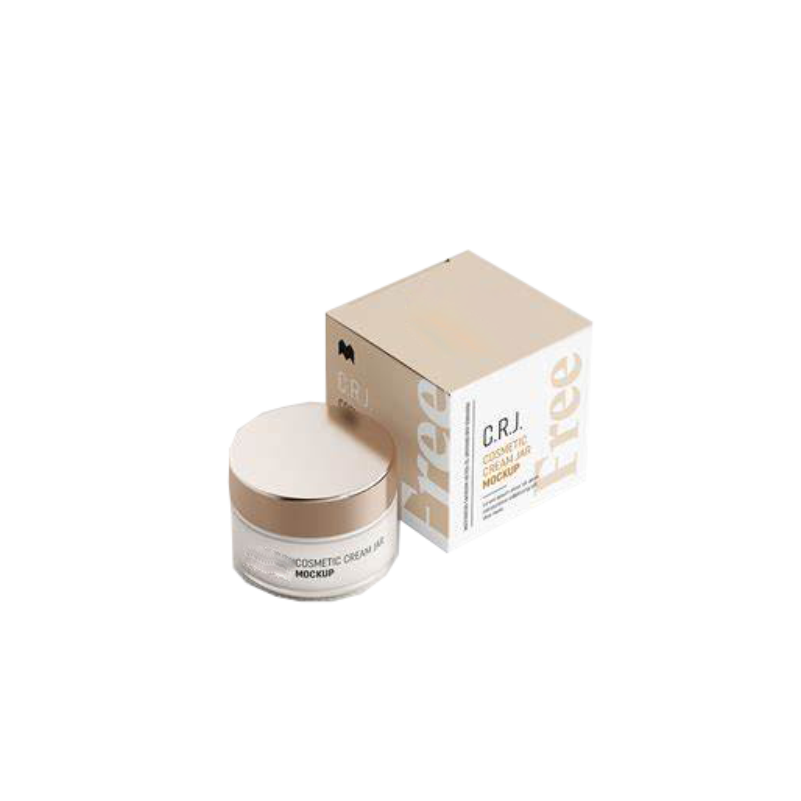
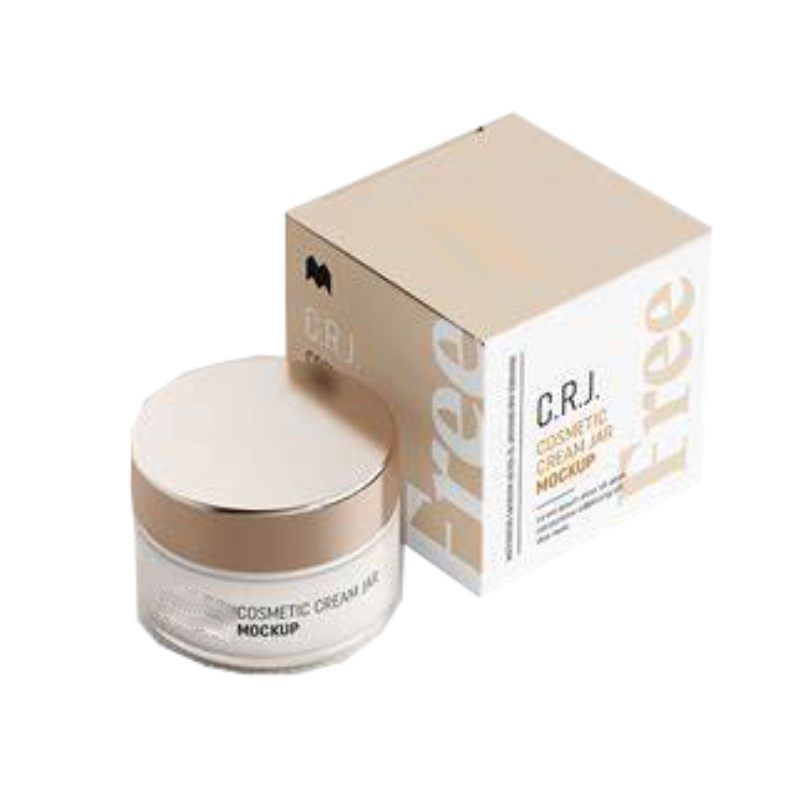
g

Changed region(s): [[0.1561, 0.1248, 0.9051, 0.8427]]

diff --git a/src/components/OurExperts/OurExperts.jsx b/src/components/OurExperts/OurExperts.jsx
@@ -45,7 +45,7 @@ function OurExperts() {
                   gridRowGap: "1rem",
                 }}
               >
-                <div className="choose-card flex  justify-center flex-col gap-2  bg-white rounded-2xl px-8 py-4">
+                <div className="choose-card flex  justify-center flex-col sm:items-center sm:text-center gap-2  bg-white rounded-2xl px-8 py-4">
                   <img src={customerSupport} alt="" className="w-24" />
                   <h1 className="font-bold uppercase">Customer Support</h1>
                   <p className="text-xs font-normal ">
@@ -53,14 +53,14 @@ function OurExperts() {
                     Project
                   </p>
                 </div>
-                <div className="choose-card flex  justify-center flex-col gap-2  bg-white rounded-2xl px-8 py-4">
+                <div className="choose-card flex  justify-center flex-col sm:items-center sm:text-center gap-2  bg-white rounded-2xl px-8 py-4">
                   <img src={customSolution} alt="" className="w-24" />
                   <h1 className="font-bold uppercase">End To End Solution</h1>
                   <p className="text-xs font-normal ">
                     Get Dedicated Support From Start To Finish And Even Beyond
                   </p>
                 </div>
-                <div className="choose-card flex  justify-center flex-col gap-2  bg-white rounded-2xl px-8 py-4">
+                <div className="choose-card flex  justify-center flex-col sm:items-center sm:text-center gap-2  bg-white rounded-2xl px-8 py-4">
                   <img src={packaging} alt="" className="w-24" />
                   <h1 className="font-bold uppercase">
                     Packaging Without Limits
@@ -70,7 +70,7 @@ function OurExperts() {
                     Reality.
                   </p>
                 </div>
-                <div className="choose-card flex  justify-center flex-col gap-2  bg-white rounded-2xl px-8 py-4">
+                <div className="choose-card flex  justify-center flex-col sm:items-center sm:text-center gap-2  bg-white rounded-2xl px-8 py-4">
                   <img src={highQuality} alt="" className="w-24" />
                   <h1 className="font-bold uppercase">
                     High Quality Guaranteed

diff --git a/src/components/Products.js b/src/components/Products.js
@@ -29,7 +29,7 @@ const productdata = [
         id: "2",
         name: "Cosmetic Jar Boxes",
         desc: "Cosmetic Jar Boxes with full-color CMYK/PMS printing process 14pt, 18pt, and 24pt card stock available with Foiling, Embossing, Spot UV, and other custom print options. We fully customize your Cosmetic Jar Boxes at very low prices with no minimum order quantity. Fill in the quote form to get a price quote right away. FREE Shipping & Design Services.",
-        img: "/productsImages/Cosmetics & Beauty/Software Boxes.png",
+        img: "/productsImages/Cosmetics & Beauty/Cosmetic Jar Boxes.png",
         popular: "true",
         description:
           "Cosmetic jar boxes are essential for packaging products like creams, lotions, powders, and other cosmetics that come in jar bottles. These boxes keep the jars safe from environmental factors and present the products in a more elegant and professional way. They are designed for high-end products like anti-aging creams, scrubs, beauty creams, and body butter. Cosmetic jar boxes enhance the shelf life and market value of the products by protecting them from direct contact with the environment, ensuring their composition remains intact. These boxes are customizable in size, style, and thickness based on client specifications and product needs. Modern techniques like die-cutting make the boxes stylish and elegant, with various printing and finishing options available to meet aesthetic and protective needs. Options include gloss or matte lamination, embossing, hot foiling, and UV spotting. They can also be used as gift packaging, adding a touch of luxury to the product presentation. Reliable companies offer printed boxes with colorful patterns, graphics, and custom designs that match client requirements. We provide customized cosmetic jar boxes with artwork tailored to your size requirements, quick delivery, and free graphic design services with unlimited revisions. For custom requests, email us at Sales@ValueBoxPrinting.com, and our designer will respond promptly with a PDF/Adobe Illustrator layout.",

diff --git a/src/components/coating/Coating.jsx b/src/components/coating/Coating.jsx
@@ -9,19 +9,22 @@ function Coating() {
         <div className="main-container">
           <div className="coating-content">
             <div
-              className="coating-navigation-bar bg-white  shadow-xl px-4 py-6"
+              className="coating-navigation-bar bg-white shadow-xl px-4 py-6"
               style={{ background: "linear-gradient(#0C4D82,#168AE9)" }}
             >
-              <ul className=" coating-nav-links flex items-center justify-center  text-sm">
-                <li className="bg-white text-black ">COATING & LAMINATIONS</li>
-                <li>PRINTING OPTIONS</li>
-                <li>SPECIAL FINISHES</li>
-                <li>PAPERBOARD</li>
-                <li>CORRUGATED</li>
-                <li>FLUTED GRADES</li>
-                <li>RIGID MATERIALS</li>
+              <ul className="coating-nav-links flex items-center justify-start text-sm sm:text-[10px] whitespace-nowrap overflow-x-auto no-scrollbar">
+                <li className="bg-white text-black p-2">
+                  COATING & LAMINATIONS
+                </li>
+                <li className="p-2">PRINTING OPTIONS</li>
+                <li className="p-2">SPECIAL FINISHES</li>
+                <li className="p-2">PAPERBOARD</li>
+                <li className="p-2">CORRUGATED</li>
+                <li className="p-2">FLUTED GRADES</li>
+                <li className="p-2">RIGID MATERIALS</li>
               </ul>
             </div>
+
             <div className="coating-cards-container gap-4 py-8 grid grid-cols-4 lg:grid-cols-3 sm:grid-cols-2 gap-4">
               <div className="coating-card flex flex-col gap-2  bg-white rounded-2xl  overflow-hidden">
                 <img src={coating1} alt="" />

diff --git a/src/components/header/Header.jsx b/src/components/header/Header.jsx
@@ -5,9 +5,11 @@ import { BiPhoneCall } from "react-icons/bi";
 import { CiUser } from "react-icons/ci";
 import Navbar from "./Navbar";
 import { RxHamburgerMenu } from "react-icons/rx";
+import { IoClose } from "react-icons/io5";
 
 function Header() {
   const [isMobile, setIsMobile] = useState(false);
+  const [navOpen, setNavOpen] = useState(false);
 
   useEffect(() => {
     const handleResize = () => {
@@ -66,15 +68,18 @@ function Header() {
                 <p>My Account</p>
               </div>
               {isMobile && (
-                <div className="hamburger-menu">
-                  <RxHamburgerMenu />
+                <div
+                  className="hamburger-menu"
+                  onClick={() => setNavOpen(!navOpen)}
+                >
+                  {navOpen ? <IoClose /> : <RxHamburgerMenu />}
                 </div>
               )}
             </div>
           </div>
         </div>
       </header>
-      <Navbar />
+      <Navbar navOpen={navOpen} />
     </>
   );
 }

diff --git a/src/components/Responsive.css b/src/components/Responsive.css
@@ -14,10 +14,10 @@
     padding-bottom: 10px;
   }
   .nav-links {
-    display: none !important;
+    /* display: none !important; */
     position: absolute;
     top: 0;
-    left: 0;
+    left: -100%;
     width: 88%;
     height: 100vh !important;
     background: #fff;
@@ -26,11 +26,15 @@
     padding: 0 !important;
     box-shadow: 0px 1px 4px 0px #000;
   }
+  .active {
+    left: 0;
+  }
   .nav-links ul {
     flex-direction: column !important;
-    align-items: center;
-    justify-content: center;
+
     height: 100%;
+    margin-top: 6rem;
+    margin-left: 1.5rem;
   }
   .nav-discount-tagline {
     margin: auto;
@@ -51,9 +55,11 @@
     font-size: 1.5rem !important;
   }
   nav {
-    margin-top: 6rem !important;
+    margin-top: 4.5rem !important;
     padding: 5px !important;
+    /* position: relative; */
     /* height: 80vh !important; */
+    margin-bottom: 5px;
   }
   .nav-discount-tagline p {
     font-size: 11px;

diff --git a/src/components/header/Navbar.jsx b/src/components/header/Navbar.jsx
@@ -2,12 +2,17 @@ import React from "react";
 import { NavLink } from "react-router-dom";
 import { RiDiscountPercentFill } from "react-icons/ri";
 
-function Navbar() {
+function Navbar({ navOpen }) {
+  console.log({ navOpen });
   return (
     <>
       <nav className="   py-4 mt-24">
         <div className="main-container flex items-center justify-between">
-          <div className="nav-links">
+          <div
+            className={`nav-links ${
+              navOpen ? "active " : "nav-links"
+            }  transition-all duration-500 ease-in-out `}
+          >
             <ul className="flex gap-4 uppercase text-[13px]">
               <li>
                 <NavLink exact="true" to="/products">

diff --git a/src/components/hero/HeroSlider.jsx b/src/components/hero/HeroSlider.jsx
@@ -18,7 +18,7 @@ function HeroSlider() {
     slidesToScroll: 1,
     arrows: false,
     // centerMode: true,
-    autoplay: false,
+    autoplay: true,
     autoplaySpeed: 4000,
     fade: true,
     adaptiveHeight: true,
